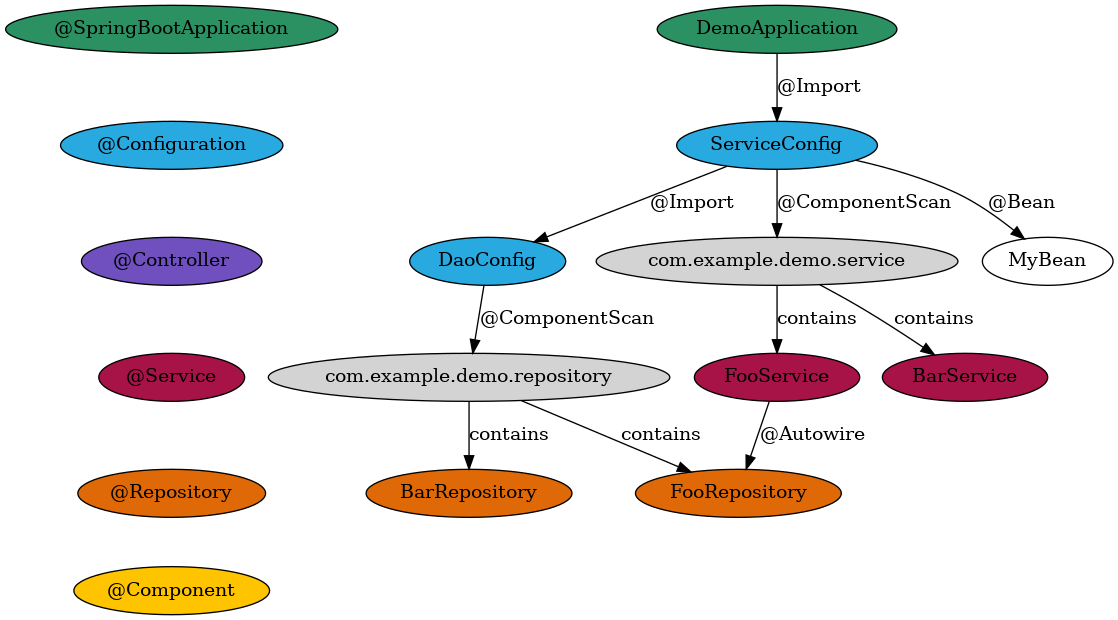
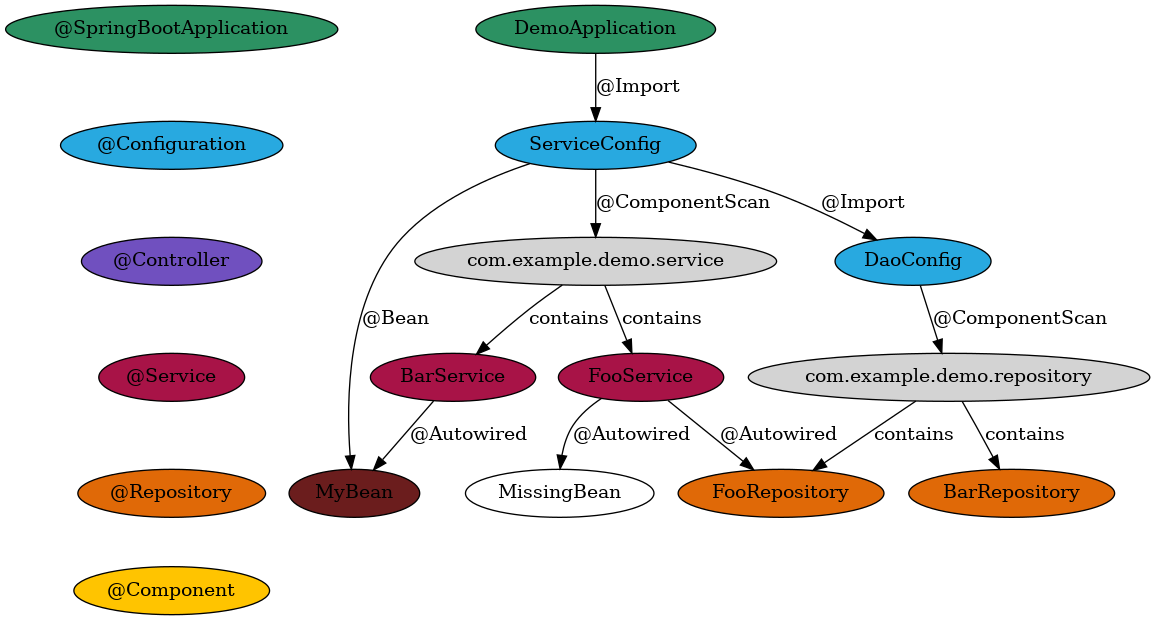
Add argument parsing and update example

diff --git a/src/main.rs b/src/main.rs
@@ -1,13 +1,16 @@
+use clap::Parser;
+use itertools::Itertools;
 use spring_visualizer::{Class, ComponentType};
 use std::{
     error::Error,
     ffi::OsString,
+    fmt::Display,
     fs::File,
     io::{BufReader, Read},
     path::Path,
     str::FromStr,
 };
-use strum::IntoEnumIterator;
+use strum::{EnumIter, IntoEnumIterator};
 use walkdir::{DirEntry, WalkDir};
 
 fn read_file(path: &Path) -> Result<String, Box<dyn Error>> {
@@ -59,19 +62,92 @@ fn print_legend() {
     println!();
 }
 
+#[derive(Debug, Clone, PartialEq, Eq, Parser, EnumIter)]
+pub enum Feature {
+    Import,
+    ComponentScan,
+    Autowired,
+    Bean,
+}
+
+impl Display for Feature {
+    fn fmt(&self, f: &mut std::fmt::Formatter<'_>) -> std::fmt::Result {
+        let debug = format!("{:?}", self);
+        write!(f, "{}", debug.to_lowercase())
+    }
+}
+
+impl FromStr for Feature {
+    type Err = String;
+
+    fn from_str(input: &str) -> Result<Self, Self::Err> {
+        for feature in Feature::iter() {
+            if input == feature.to_string() {
+                return Ok(feature);
+            }
+        }
+        return Err(format!("unknown feature {}", input));
+    }
+}
+
+#[derive(Debug, Clone, Parser)]
+pub struct Features {
+    features: Vec<Feature>,
+}
+
+impl Features {
+    pub fn contains(&self, feature: &Feature) -> bool {
+        self.features.contains(feature)
+    }
+}
+
+impl Default for Features {
+    fn default() -> Self {
+        Self {
+            features: Feature::iter().collect(),
+        }
+    }
+}
+
+impl Display for Features {
+    fn fmt(&self, f: &mut std::fmt::Formatter<'_>) -> std::fmt::Result {
+        let comma_separated_features = self.features.iter().map(|f| f.to_string()).join(",");
+        write!(f, "{}", comma_separated_features)
+    }
+}
+
+impl FromStr for Features {
+    type Err = String;
+
+    fn from_str(s: &str) -> Result<Self, Self::Err> {
+        let features = s
+            .split(',')
+            .map(|s| s.trim())
+            .map(FromStr::from_str)
+            .collect::<Result<Vec<Feature>, _>>()?;
+        Ok(Self { features })
+    }
+}
+
+#[derive(Debug, Clone, Parser)]
+pub struct Args {
+    /// Directories to scan for files.
+    path: String,
+    /// Kinds of relations to include.
+    #[clap(short, long, default_value_t)]
+    features: Features,
+}
+
 fn main() -> Result<(), Box<dyn Error>> {
     env_logger::init();
 
-    let mut args = std::env::args();
-    let executable = args.next().unwrap();
-    let dir = args
-        .next()
-        .ok_or_else(|| format!("Usage: {} <path>", executable))?;
+    let args = Args::parse();
+
     println!("digraph Components {{");
 
     print_legend();
 
-    let classes: Vec<Class> = javafiles(&dir)
+    let classes: Vec<Class> = javafiles(&args.path)
         .map(|entry| {
             let content = read_file(entry.path()).expect("failed to read file");
             let (_, class) =
@@ -91,44 +167,53 @@ fn main() -> Result<(), Box<dyn Error>> {
         }
 
         // Imports
-        log::debug!("{}: Imports {:?}", class.name(), class.imports());
-        for import in class.imports() {
-            log::debug!("Import here");
-            println!("    {} -> {} [label=\"@Import\"];", class.name(), import);
+        if args.features.contains(&Feature::Import) {
+            log::debug!("{}: Imports {:?}", class.name(), class.imports());
+            for import in class.imports() {
+                log::debug!("Import here");
+                println!("    {} -> {} [label=\"@Import\"];", class.name(), import);
+            }
         }
 
         // Component scans
-        for package in class.component_scans() {
-            println!("    \"{}\" [style=filled];", package);
-            println!(
-                "    \"{}\" -> \"{}\" [label=\"@ComponentScan\"];",
-                class.name(),
-                package
-            );
-            let scanned = classes
-                .iter()
-                .filter(|c| c.package().contains(package) && c.component_type().is_some());
-            for c in scanned {
-                println!("    \"{}\" -> {} [label=contains];", package, c.name());
+        if args.features.contains(&Feature::ComponentScan) {
+            for package in class.component_scans() {
+                println!("    \"{}\" [style=filled];", package);
+                println!(
+                    "    \"{}\" -> \"{}\" [label=\"@ComponentScan\"];",
+                    class.name(),
+                    package
+                );
+                let scanned = classes
+                    .iter()
+                    .filter(|c| c.package().contains(package) && c.component_type().is_some());
+                for c in scanned {
+                    println!("    \"{}\" -> {} [label=contains];", package, c.name());
+                }
             }
         }
 
         // Autowires
-        for autowire in class.autowires() {
-            println!(
-                "    {} -> {} [label=\"@Autowire\"];",
-                class.name(),
-                autowire.class()
-            );
+        if args.features.contains(&Feature::Autowired) {
+            for autowire in class.autowires() {
+                println!(
+                    "    {} -> {} [label=\"@Autowired\"];",
+                    class.name(),
+                    autowire.class()
+                );
+            }
         }
 
         // Beans
-        for bean in class.bean_defs() {
-            println!(
-                "    {} -> {} [label=\"@Bean\"];",
-                class.name(),
-                bean.class()
-            );
+        if args.features.contains(&Feature::Bean) {
+            for bean in class.bean_defs() {
+                println!("    {} [fillcolor=\"#6b1d1d\",style=filled];", bean.class());
+                println!(
+                    "    {} -> {} [label=\"@Bean\"];",
+                    class.name(),
+                    bean.class()
+                );
+            }
         }
     }
 

diff --git a/demo/src/main/java/com/example/demo/service/FooService.java b/demo/src/main/java/com/example/demo/service/FooService.java
@@ -7,6 +7,10 @@ import com.example.demo.repository.FooRepository;
 
 @Service
 public class FooService {
+
+    @Autowired
+    MissingBean missingBean;
+
     @Autowired
     FooRepository fooRepository;
 }

diff --git a/demo/src/main/java/com/example/demo/service/BarService.java b/demo/src/main/java/com/example/demo/service/BarService.java
@@ -4,4 +4,6 @@ import org.springframework.stereotype.Service;
 
 @Service
 public class BarService {
+    @Autowired
+    MyBean myBean;
 }
